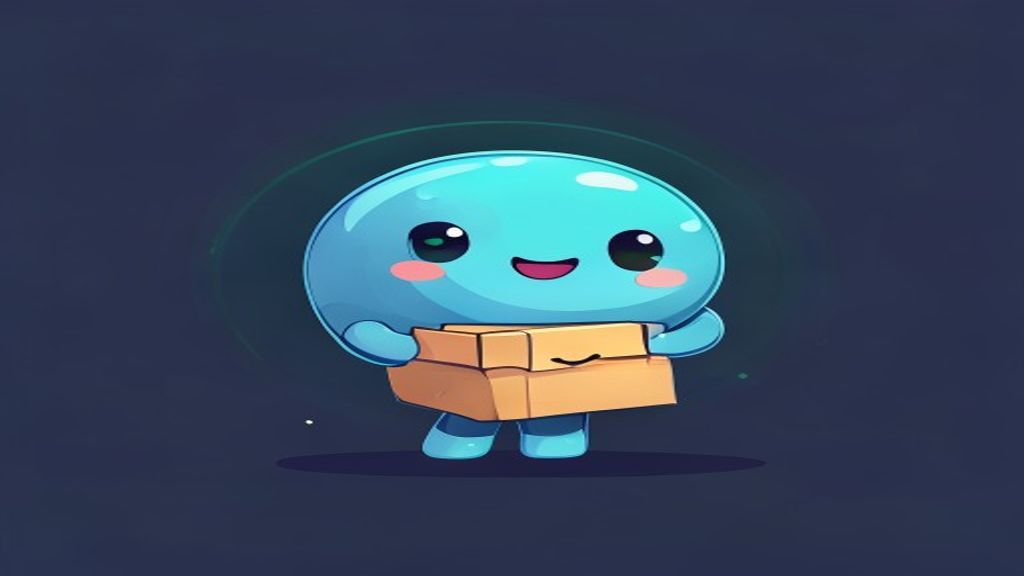
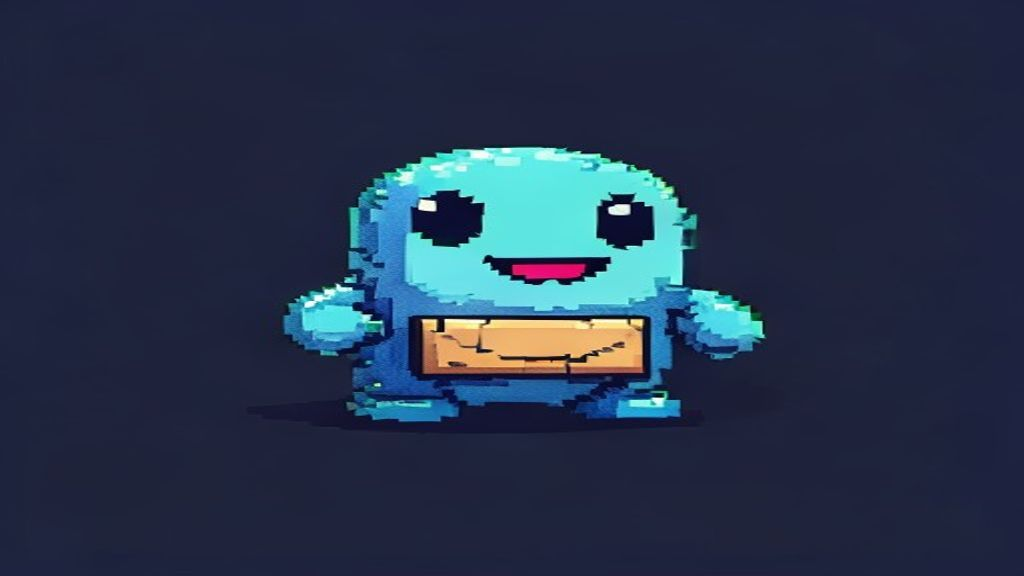
feat(ia): personajes a pixel-art retro + tamaño más chico
Reemplazo las mascotas cute por sprites pixel-art retro 16-bit (más graciosos,
pedido del usuario): blob azul pixelado con su prop por agente. Avatar más chico
y centrado en cada card (.ia-card-char: contain, 92px, max 64%).

Changed region(s): [[0.2188, 0.1875, 0.7812, 0.8125], [0.2188, 0.3438, 0.25, 0.4062], [0.1875, 0.4062, 0.2188, 0.4375]]

diff --git a/ia.html b/ia.html
@@ -116,7 +116,7 @@ s.parentNode.insertBefore(b, s);})(window.lintrk);
     .ia-card:nth-child(3) { animation-delay: -7s, -2.8s; }
     .ia-card:nth-child(4) { animation-delay: -11s, -4.1s; }
     .ia-card::after { content: ""; position: absolute; bottom: 14px; right: 16px; width: 7px; height: 7px; border-radius: 50%; background: var(--ia-node); box-shadow: 0 0 9px 2px rgba(109,160,214,.7); }
-    .ia-card-char { display: block; width: 100%; height: 152px; object-fit: cover; object-position: center 40%; border-radius: 18px; margin-bottom: 12px; filter: drop-shadow(0 8px 18px rgba(79,134,198,.32)); }
+    .ia-card-char { display: block; height: 92px; width: auto; max-width: 64%; object-fit: contain; margin: 2px auto 8px; filter: drop-shadow(0 6px 14px rgba(79,134,198,.3)); }
     @media (prefers-reduced-motion: reduce) { .ia-card, .ia-infra-card { animation: none !important; } }
     .ia-card-top { display: flex; justify-content: space-between; align-items: flex-start; gap: 8px; }
     .ia-card-name { font-size: 20px; font-weight: 700; }
